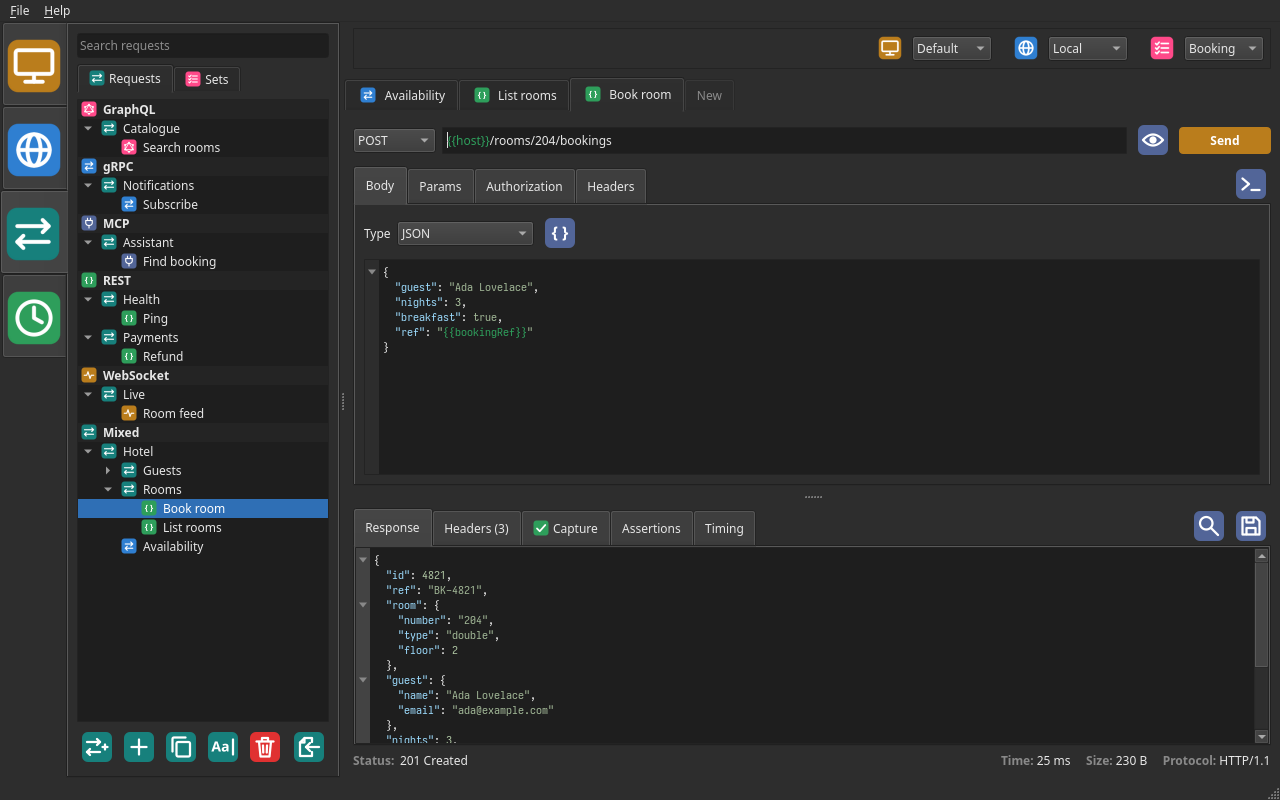
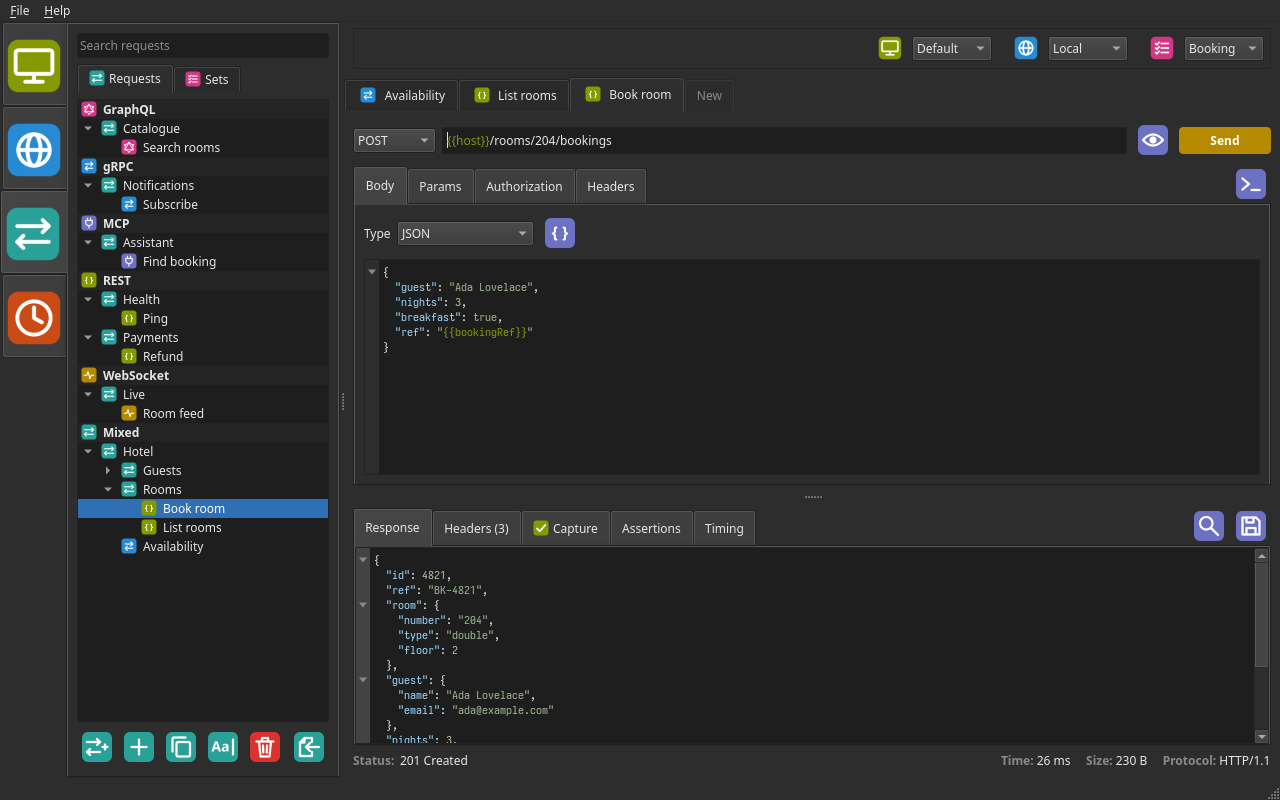
Updated colours.

diff --git a/internal/ui/colours.go b/internal/ui/colours.go
@@ -34,7 +34,8 @@ const (
 )
 
 // colourKinds are the colours, with what each is called in the settings and
-// the colour it is until another is chosen. Each has a default of its own,
+// the colour it is until another is chosen, which is one of the accents of
+// the Solarized palette. Each has a default of its own,
 // which no other follows, so that changing one changes nothing else. Send
 // is the colour of every button which sends: Invoke, Call, Connect, and
 // Execute beside the curl command. The action buttons are those beside the tabs of a panel,
@@ -54,26 +55,26 @@ var colourKinds = []struct {
 	// user has chosen.
 	setting func(*settings.Colours) *string
 }{
-	{colourWorkspaces, "Workspaces", "#ba7d1c", func(c *settings.Colours) *string { return &c.Workspaces }},
-	{colourEnvironments, "Environments", "#2f7fd1", func(c *settings.Colours) *string { return &c.Environments }},
-	{colourRequests, "Requests", "#17807c", func(c *settings.Colours) *string { return &c.Requests }},
-	{colourREST, "REST", "#2e9e5b", func(c *settings.Colours) *string { return &c.REST }},
-	{colourGRPC, "gRPC", "#2f7fd1", func(c *settings.Colours) *string { return &c.GRPC }},
-	{colourWebSocket, "WebSocket", "#ba7d1c", func(c *settings.Colours) *string { return &c.WebSocket }},
-	{colourGraphQL, "GraphQL", "#ff4989", func(c *settings.Colours) *string { return &c.GraphQL }},
-	{colourMCP, "MCP", "#526598", func(c *settings.Colours) *string { return &c.MCP }},
-	{colourRemove, "Delete", "#e03131", func(c *settings.Colours) *string { return &c.Remove }},
-	{colourAction, "Action", "#526598", func(c *settings.Colours) *string { return &c.Action }},
-	{colourSend, "Send", "#ba7d1c", func(c *settings.Colours) *string { return &c.Send }},
-	{colourFound, "Placeholders found", "#2e9e5b", func(c *settings.Colours) *string { return &c.Found }},
-	{colourNotFound, "Placeholders not found", "#ef5350", func(c *settings.Colours) *string { return &c.NotFound }},
-	{colourError, "Errors", "#ef5350", func(c *settings.Colours) *string { return &c.Error }},
-	{colourMatch, "Search matches", "#ffd43b", func(c *settings.Colours) *string { return &c.Match }},
-	{colourSets, "Sets", "#ff4989", func(c *settings.Colours) *string { return &c.Sets }},
-	{colourHistory, "History", "#2e9e5b", func(c *settings.Colours) *string { return &c.History }},
-	{colourTiming, "Timing bars", "#ba7d1c", func(c *settings.Colours) *string { return &c.Timing }},
-	{colourPassed, "Passed", "#2e9e5b", func(c *settings.Colours) *string { return &c.Passed }},
-	{colourFailed, "Failed", "#ef5350", func(c *settings.Colours) *string { return &c.Failed }},
+	{colourWorkspaces, "Workspaces", "#859900", func(c *settings.Colours) *string { return &c.Workspaces }},
+	{colourEnvironments, "Environments", "#268bd2", func(c *settings.Colours) *string { return &c.Environments }},
+	{colourRequests, "Requests", "#2aa198", func(c *settings.Colours) *string { return &c.Requests }},
+	{colourREST, "REST", "#859900", func(c *settings.Colours) *string { return &c.REST }},
+	{colourGRPC, "gRPC", "#268bd2", func(c *settings.Colours) *string { return &c.GRPC }},
+	{colourWebSocket, "WebSocket", "#b58900", func(c *settings.Colours) *string { return &c.WebSocket }},
+	{colourGraphQL, "GraphQL", "#d33682", func(c *settings.Colours) *string { return &c.GraphQL }},
+	{colourMCP, "MCP", "#6c71c4", func(c *settings.Colours) *string { return &c.MCP }},
+	{colourRemove, "Delete", "#dc322f", func(c *settings.Colours) *string { return &c.Remove }},
+	{colourAction, "Action", "#6c71c4", func(c *settings.Colours) *string { return &c.Action }},
+	{colourSend, "Send", "#b58900", func(c *settings.Colours) *string { return &c.Send }},
+	{colourFound, "Placeholders found", "#859900", func(c *settings.Colours) *string { return &c.Found }},
+	{colourNotFound, "Placeholders not found", "#dc322f", func(c *settings.Colours) *string { return &c.NotFound }},
+	{colourError, "Errors", "#dc322f", func(c *settings.Colours) *string { return &c.Error }},
+	{colourMatch, "Search matches", "#b58900", func(c *settings.Colours) *string { return &c.Match }},
+	{colourSets, "Sets", "#d33682", func(c *settings.Colours) *string { return &c.Sets }},
+	{colourHistory, "History", "#cb4b16", func(c *settings.Colours) *string { return &c.History }},
+	{colourTiming, "Timing bars", "#b58900", func(c *settings.Colours) *string { return &c.Timing }},
+	{colourPassed, "Passed", "#859900", func(c *settings.Colours) *string { return &c.Passed }},
+	{colourFailed, "Failed", "#dc322f", func(c *settings.Colours) *string { return &c.Failed }},
 }
 
 // customColours are the colours the user has chosen. See setColours.

diff --git a/internal/ui/json.go b/internal/ui/json.go
@@ -17,6 +17,10 @@ const (
 	tokenString
 	tokenNumber
 	tokenLiteral
+	// tokenCurl is not a token of JSON but the text of the curl command of
+	// a request, which is in the colour of the keys of JSON unless another
+	// is chosen.
+	tokenCurl
 )
 
 // The default colours of the tokens. jsonDark is used on a dark background
@@ -28,28 +32,32 @@ var (
 		tokenString:  "#0451a5",
 		tokenNumber:  "#098658",
 		tokenLiteral: "#0451a5",
+		tokenCurl:    "#a31515",
 	}
 	jsonDark = map[tokenKind]string{
 		tokenKey:     "#9bdafc",
 		tokenString:  "#a1b796",
 		tokenNumber:  "#b0c8a4",
 		tokenLiteral: "#a1b796",
+		tokenCurl:    "#9bdafc",
 	}
 )
 
 // tokenKinds are the kinds of token in the order they are offered in the
-// settings, with what each is called there.
+// settings, with the heading they are under there and what each is called.
 var tokenKinds = []struct {
-	kind  tokenKind
-	label string
+	kind    tokenKind
+	heading string
+	label   string
 	// setting returns the place in the settings that holds the colour the
 	// user has chosen.
 	setting func(*settings.JSONColours) *string
 }{
-	{tokenKey, "Keys", func(c *settings.JSONColours) *string { return &c.Key }},
-	{tokenString, "Strings", func(c *settings.JSONColours) *string { return &c.String }},
-	{tokenNumber, "Numbers", func(c *settings.JSONColours) *string { return &c.Number }},
-	{tokenLiteral, "true, false and null", func(c *settings.JSONColours) *string { return &c.Literal }},
+	{tokenKey, "JSON", "Keys", func(c *settings.JSONColours) *string { return &c.Key }},
+	{tokenString, "JSON", "Strings", func(c *settings.JSONColours) *string { return &c.String }},
+	{tokenNumber, "JSON", "Numbers", func(c *settings.JSONColours) *string { return &c.Number }},
+	{tokenLiteral, "JSON", "true, false and null", func(c *settings.JSONColours) *string { return &c.Literal }},
+	{tokenCurl, "Curl command", "Text", func(c *settings.JSONColours) *string { return &c.Curl }},
 }
 
 // defaultJSONColours returns the colours of the tokens for the background

diff --git a/internal/ui/settingsdialog_test.go b/internal/ui/settingsdialog_test.go
@@ -287,6 +287,37 @@ func TestJSONColourSettings(t *testing.T) {
 	})
 }
 
+// TestCurlColourSetting checks that the curl command is in the colour of the
+// keys of JSON until another is chosen for it.
+func TestCurlColourSetting(t *testing.T) {
+	files := testFiles(t)
+
+	mainthread.Wait(func() {
+		w := NewWindow(files.Files)
+		text := func() string { return w.request.command.Palette().ColorWithCr(qt.QPalette__Text).Name() }
+		if want := defaultJSONColours()[tokenKey]; text() != want {
+			t.Errorf("curl colour = %s, want the colour of keys %s", text(), want)
+		}
+
+		d := newSettingsDialog(w.QWidget, w.config, files.Files)
+		d.json[tokenCurl].set("#112233")
+		chosen := d.settings(w.config)
+		if chosen.JSONColours != (settings.JSONColours{Curl: "#112233"}) {
+			t.Errorf("chosen = %+v", chosen.JSONColours)
+		}
+		if err := w.applySettings(chosen); err != nil {
+			t.Fatal(err)
+		}
+		if text() != "#112233" {
+			t.Errorf("curl colour = %s after choosing one", text())
+		}
+	})
+
+	if got := settings.Load(files.Settings).JSONColours; got != (settings.JSONColours{Curl: "#112233"}) {
+		t.Errorf("saved %+v", got)
+	}
+}
+
 func TestColourSettings(t *testing.T) {
 	files := testFiles(t)
 
@@ -476,7 +507,7 @@ func TestSettingsTabs(t *testing.T) {
 		// Every colour has a row of the table, under a heading for its
 		// section which is as wide as the table.
 		table := d.colourList
-		if want := len(colourSections) + 1 + len(colourKinds) + len(tokenKinds); table.RowCount() != want {
+		if want := len(colourSections) + 2 + len(colourKinds) + len(tokenKinds); table.RowCount() != want {
 			t.Errorf("the table of colours has %d rows, want %d", table.RowCount(), want)
 		}
 		if table.Item(0, colColourName).Text() != "Sidebar" || table.ColumnSpan(0, colColourName) != 2 || table.Item(1, colColourName).Text() != colourLabel(colourWorkspaces) {

diff --git a/internal/settings/settings.go b/internal/settings/settings.go
@@ -104,6 +104,8 @@ type JSONColours struct {
 	String  string `json:"string,omitempty"`
 	Number  string `json:"number,omitempty"`
 	Literal string `json:"literal,omitempty"`
+	// Curl is the colour of the text of the curl command of a request.
+	Curl string `json:"curl,omitempty"`
 }
 
 var hexColour = regexp.MustCompile(`^#[0-9a-fA-F]{6}$`)
@@ -111,7 +113,7 @@ var hexColour = regexp.MustCompile(`^#[0-9a-fA-F]{6}$`)
 // valid returns the colours with any that are not of the form #rrggbb
 // emptied.
 func (c JSONColours) valid() JSONColours {
-	emptyInvalid(&c.Key, &c.String, &c.Number, &c.Literal)
+	emptyInvalid(&c.Key, &c.String, &c.Number, &c.Literal, &c.Curl)
 	return c
 }
 

diff --git a/internal/ui/request.go b/internal/ui/request.go
@@ -280,6 +280,18 @@ func (p *requestPanel) setCodeFont(family string) {
 	p.command.SetFont(fixedFont(family))
 }
 
+// setCurlColour sets the colour the text of the curl command is in. Only the
+// role of the text is set in the widget's palette, so the rest follows the
+// theme.
+func (p *requestPanel) setCurlColour(colour string) {
+	palette := qt.NewQPalette()
+	c := qt.NewQColor6(colour)
+	palette.SetColor2(qt.QPalette__Text, c)
+	p.command.SetPalette(palette)
+	c.Delete()
+	palette.Delete()
+}
+
 // missingValue is shown in the preview of the URL where a placeholder has no
 // value: a black square, for something that is not there.
 const missingValue = "\u25a0"

diff --git a/internal/ui/settingsdialog.go b/internal/ui/settingsdialog.go
@@ -416,9 +416,13 @@ func (d *settingsDialog) colourTable() *qt.QTableWidget {
 		}
 	}
 
-	heading("JSON")
+	last := ""
 	for _, t := range tokenKinds {
-		s := d.newSwatch("JSON "+strings.ToLower(t.label[:1])+t.label[1:], customColour(&d.jsonColours, t.kind), func() string { return defaultJSONColours()[t.kind] })
+		if t.heading != last {
+			heading(t.heading)
+			last = t.heading
+		}
+		s := d.newSwatch(t.heading+" "+strings.ToLower(t.label[:1])+t.label[1:], customColour(&d.jsonColours, t.kind), func() string { return defaultJSONColours()[t.kind] })
 		d.json[t.kind] = s
 		add(t.label, s)
 	}

diff --git a/internal/ui/colours_test.go b/internal/ui/colours_test.go
@@ -63,7 +63,7 @@ func TestColourSettingFields(t *testing.T) {
 // TestJSONColourSettingFields checks that each kind of token is kept in its own
 // field of the settings.
 func TestJSONColourSettingFields(t *testing.T) {
-	want := map[tokenKind]string{tokenKey: "Key", tokenString: "String", tokenNumber: "Number", tokenLiteral: "Literal"}
+	want := map[tokenKind]string{tokenKey: "Key", tokenString: "String", tokenNumber: "Number", tokenLiteral: "Literal", tokenCurl: "Curl"}
 	for _, k := range tokenKinds {
 		var c settings.JSONColours
 		*customColour(&c, k.kind) = "#123456"

diff --git a/internal/ui/windowsettings.go b/internal/ui/windowsettings.go
@@ -140,6 +140,7 @@ func (w *Window) applyJSONColours() {
 		ui.editor.refreshPlaceholders()
 		ui.response.setJSONColours(colours)
 	}
+	w.request.setCurlColour(colours[tokenCurl])
 }
 
 // drawSidebarIcons gives the tabs of the sidebar their icons.

diff --git a/CLAUDE.md b/CLAUDE.md
@@ -95,10 +95,10 @@ Packages under `internal/`; only `ui` depends on Qt.
   - Right-clicking a value in the body of a response offers to capture it: `responsePanel.contextMenu` adds the offer to the usual menu of the editor when `capturePath` finds a path for the position (through `capture.PathAt`), and `addCapture` adds the rule, unless there is one the same, and shows it on the Capture tab with the name of its variable open for editing (`keyValueTable.addToEdit`). Values are offered only from `responsePanel.captureDoc`, the JSON that capturing reads, which the body ends with: all of a REST body that is valid JSON, as the editor shows it, or the last message of a gRPC call. It also offers to assert the value (`addAssertion`, if the panel has assertions, which is then the last action): a check of `assert.Body` at the path that it `equals` what `capture.Extract` gives of it, added by `assertTable.add` with its value open for editing. Tests call `contextMenu` and trigger its actions rather than open the menu.
   - `placeholderHighlighter` (`placeholders.go`) colours `{{name}}` placeholders, by default green if the active environment defines them and the red of a failure if it does not, or defines them as an empty value (`colourFound` / `colourNotFound`, decided in `placeholderRanges`). Text documents use a `QSyntaxHighlighter`; line edits have no formatting API, so the colours are delivered with an empty `QInputMethodEvent`, re-sent whenever the text or cursor moves. `Rehighlight` makes a `QPlainTextEdit` emit `textChanged`, so it is only called through `requestPanel.refreshPlaceholders`, which suppresses `onChange`. Table cells (params, headers, form fields, gRPC metadata) are coloured by an item delegate (`placeholderHighlighter.table`) which draws the cell without its text and paints the text over it in pieces; a cell is not coloured while it is being edited.
   - The sidebar width and response height are saved on close and restored by `Window.restoreLayout` the first time the window is shown, deferred with `Window.later` because splitter sizes are not known until the window has been laid out. The REST and gRPC pages share one response height (`Window.responseHeight`), applied to a page when it is shown.
-  - JSON in the REST body (when its type is JSON), the gRPC message, the GraphQL variables and the response is coloured and can be folded, and so are the GraphQL query and schema, as GraphQL in the same colours (`graphqlTokens` in `graphqltokens.go`, which shares its scanning of strings and numbers with `jsonTokens` and carries a block string over lines through the block state of the highlighter). There is a light and a dark set of default colours (`jsonLight` / `jsonDark`), chosen from the palette at startup; the settings dialog can override each, and `Window.applyJSONColours` updates every highlighter. `json.go` has the pure Go tokenizer (`jsonTokens`) and fold finder (`foldRegions`), both working line by line. A document can have only one `QSyntaxHighlighter`, so `placeholderHighlighter.code` colours the tokens of a language and the placeholders together: `document` with JSON (while its `isJSON` reports true; `always` for an editor that always holds it) and `graphql` with GraphQL. `folder` (`folding.go`) draws fold markers in a margin widget and hides the `QTextBlock`s inside a folded object or array; the text is untouched. It reacts to edits a turn of the event loop later, and `reset()` must be called after giving an editor new text.
+  - JSON in the REST body (when its type is JSON), the gRPC message, the GraphQL variables and the response is coloured and can be folded, and so are the GraphQL query and schema, as GraphQL in the same colours (`graphqlTokens` in `graphqltokens.go`, which shares its scanning of strings and numbers with `jsonTokens` and carries a block string over lines through the block state of the highlighter). There is a light and a dark set of default colours (`jsonLight` / `jsonDark`), chosen from the palette at startup; the settings dialog can override each (under a heading of each `tokenKinds` entry's `heading`), and `Window.applyJSONColours` updates every highlighter. The text of the curl command is coloured with them too, as `tokenCurl` (`settings.JSONColours.Curl`, `omitempty`; its defaults are those of the keys), which no tokenizer gives: `requestPanel.setCurlColour` sets the Text role of the command's palette alone. `json.go` has the pure Go tokenizer (`jsonTokens`) and fold finder (`foldRegions`), both working line by line. A document can have only one `QSyntaxHighlighter`, so `placeholderHighlighter.code` colours the tokens of a language and the placeholders together: `document` with JSON (while its `isJSON` reports true; `always` for an editor that always holds it) and `graphql` with GraphQL. `folder` (`folding.go`) draws fold markers in a margin widget and hides the `QTextBlock`s inside a folded object or array; the text is untouched. It reacts to edits a turn of the event loop later, and `reset()` must be called after giving an editor new text.
   - A Format button (`formatButton` in `format.go`, an action button with a pair of braces, `drawBraces`, as the icon of a REST request has) sets out the JSON of the REST body, where it is beside the type of the body and shown only when that is JSON (`requestPanel.format`), and of the gRPC message, beside Use Example Message (`grpcPanel.format`, which is `several`, setting out each of the messages one after another with `rest.FormatJSONValues`). Beside them a faded line (`grpcPanel.streaming`, shown by `showStreaming` once the service definition says) says that the method chosen takes a stream of messages, and how to give several. `rest.FormatJSON` does it, indenting by two spaces as a response is, and keeps `{{name}}` placeholders, which may stand for a value as well as be inside a string, by swapping each for a number while the text is set out. The text is replaced through a `QTextCursor` so that it can be undone. Text that is not JSON is left alone and the reason shown as a tooltip beneath the button; tests replace `formatButton.warn`.
   - The menu bar (`Window.newMenuBar`) has File > Settings (Ctrl+,), File > Quit (Ctrl+Q), which closes the window so the close event still saves the settings, and Help > About (Ctrl+I), which shows `aboutDialog` (`about.go`): the program's icon and `aboutText` beside it, under the name and the version (`newAboutTitle`; `appVersion` is from the build information Go records from git, as `plainVersion` has it: the release, or the one a build between tags follows, and the version is smaller and half transparent through a `QGraphicsOpacityEffect`), and `licenceText` beneath in a `QFrame` of the style (`StyledPanel`, sunken), with no style sheet or colour of its own. `licenceText` carries the notice the LGPL asks of programs using Qt and names the libraries the program is built with and their licences; a library added to `go.mod` (not as indirect) is added to it.
-  - The colours of the icons are chosen in the settings: workspaces, environments, requests, REST, gRPC, WebSocket, GraphQL and MCP requests, the delete buttons and the action buttons (curl, format, find, save and the pin of a request tab, which share one), the send buttons (Send, Invoke and Execute, styled by `makePrimary`), placeholders that are found and not found (`placeholderHighlighter.setColours`), the text of errors (`colourError`: failures in the bar beneath a response, and the status lines of the gRPC, GraphQL and MCP panels, `statusLine`), the tick and cross of capturing and of assertions (`colourPassed` / `colourFailed`, in a Captures and assertions section of the settings; `settings.Colours.UnmarshalJSON` reads the `captured` / `notCaptured` of a settings file from before as them), what marks the matches of a search of a response (`colourMatch`), the sets, their tab and their buttons (`colourSets`, in the Sidebar section of the settings), the History tab and its buttons (`colourHistory`, there too), and the bars of the Timing tab of a response (`colourTiming`, in a Timing section of its own). Text drawn over one of these colours is black or white, whichever `readableOn` (`style.go`) says can be read against it. `colours.go` has the kinds (`colourKinds`, with their defaults and the field of `settings.Colours` each is kept in) and `themeColour`, which gives the colour in effect; nothing else names one of these colours. Every kind has a default of its own, written out in `colourKinds` and shared with no other kind or constant, and everything is drawn in the colour of its own kind, so that changing one colour in the settings changes nothing else. Icons drawn in these colours are kept by `cachedIcon`, which `setColours` empties. `newIconButton` takes a kind, and `followColours` has a button's icon drawn again when the colours change. `Window.applyColours` (through `setColours`, which also forgets the cached icons) redraws the rest: the sidebar tabs, the lists, the tree, the history, the request tabs, the send buttons, the placeholders, the errors, the marks of captures and assertions, the matches of a search and the timing bars (`timingTab.recolour`). The colours are package state, set from the settings by `NewWindow`. The import kinds and the program's icon are not among them.
+  - The colours of the icons are chosen in the settings: workspaces, environments, requests, REST, gRPC, WebSocket, GraphQL and MCP requests, the delete buttons and the action buttons (curl, format, find, save and the pin of a request tab, which share one), the send buttons (Send, Invoke and Execute, styled by `makePrimary`), placeholders that are found and not found (`placeholderHighlighter.setColours`), the text of errors (`colourError`: failures in the bar beneath a response, and the status lines of the gRPC, GraphQL and MCP panels, `statusLine`), the tick and cross of capturing and of assertions (`colourPassed` / `colourFailed`, in a Captures and assertions section of the settings; `settings.Colours.UnmarshalJSON` reads the `captured` / `notCaptured` of a settings file from before as them), what marks the matches of a search of a response (`colourMatch`), the sets, their tab and their buttons (`colourSets`, in the Sidebar section of the settings), the History tab and its buttons (`colourHistory`, there too), and the bars of the Timing tab of a response (`colourTiming`, in a Timing section of its own). Text drawn over one of these colours is black or white, whichever `readableOn` (`style.go`) says can be read against it. `colours.go` has the kinds (`colourKinds`, with their defaults and the field of `settings.Colours` each is kept in) and `themeColour`, which gives the colour in effect; nothing else names one of these colours. Every kind has a default of its own, an accent of the Solarized palette, written out in `colourKinds` and shared with no other kind or constant, and everything is drawn in the colour of its own kind, so that changing one colour in the settings changes nothing else. Icons drawn in these colours are kept by `cachedIcon`, which `setColours` empties. `newIconButton` takes a kind, and `followColours` has a button's icon drawn again when the colours change. `Window.applyColours` (through `setColours`, which also forgets the cached icons) redraws the rest: the sidebar tabs, the lists, the tree, the history, the request tabs, the send buttons, the placeholders, the errors, the marks of captures and assertions, the matches of a search and the timing bars (`timingTab.recolour`). The colours are package state, set from the settings by `NewWindow`. The import kinds and the program's icon are not among them.
   - The theme (`theme.go`, as ApeMail has it): light and dark are the Fusion style, which honours a palette on every desktop, with a palette of its own (`lightColours` / `darkColours`, each setting every role Fusion draws with, given by the theme's entry in `themes`, which is nil for the system's; `themeIndex` finds one by name), through a proxy style (`newThemeStyle`) that edges the boxes of check boxes again half way between text and base, as Fusion's edge barely shows on either (`TestCheckBoxEdges`); following the system puts back the style the program started with (`systemStyle`) and an empty palette, which is the desktop's and which Qt keeps up to date as the desktop changes. `applyTheme` puts one into effect: `NewWindow` before any widget is made, and `Window.applySettings` at once when it changes, which then has `applyJSONColours` and `applyColours` draw again what is in colours made from the palette (the default JSON colours, faded text, the selection of the find bar). The application's palette changes at once and those of widgets only once the change posted to them is delivered, so read the application's (`QGuiApplication_Palette`) in such a redraw. A `QProxyStyle` made without a base is over the desktop's style, not the application's, so `paddedComboStyle` is made over `themeStyleName()` and `applyTheme` gives it the new one.
   - `Window.keys` are the keys in effect, opened by `openKeys` at startup and when the settings change; the sidebar lists save with them (`envList.keys` / `requestTree.keys`). The program needs keys to work: with none (`Window.keys == nil`), `Window.loadWorkspace` gives empty stores with no paths, so nothing is read or saved, the status bar says so (`needKeys`), and `adviseKeys` tells the user in a dialog when the window is first shown and when the keys are taken out of the settings. With keys, `loadWorkspace` encrypts a file that is not yet (`Window.encrypt`) once it has been read, and a file that cannot be decrypted is, like one that cannot be parsed, never saved to. `Window.changeKeys` converts the files of every workspace (`workspace.Files`, the history among them) when the keys of the settings change, and reads the workspace in use again if it could not be read before; taking the keys away leaves the files as they are. Keys that cannot be opened are refused and the setting left as it was. Tests replace `askPassphrase` and `adviseKeys` rather than let the dialogs open.
   - The Export and Import buttons of the settings dialog call `settingsDialog.onExport` / `onImport`, which `Window.openSettings` sets to `Window.chooseExport` / `chooseImport`; those ask for the files and call `Window.exportWorkspaces` / `importWorkspaces`, which tests call directly. They act at once, with the keys and folder in effect, not what the dialog has yet to be accepted with. `workspace.Export` writes every workspace to a zip file (a folder for each, holding its environments and requests; the history is personal and left out) with each file decrypted and encrypted again for someone else's public key (`crypt.Recipient`, keys which only encrypt); `workspace.Unpack` adds the workspaces of such a file, reading and checking everything before writing anything: only those two files in folders with valid names, each readable with the keys, and a name that is taken is given another (`Unique`) so nothing is replaced.

diff --git a/README.md b/README.md
@@ -394,10 +394,11 @@ File > Settings has five tabs:
 - User interface: the theme, light, dark or following the desktop's (which
   changes with it), the font of code (request and response bodies, messages,
   queries, arguments and the curl command), and the colours of the
-  interface, listed in sections: the icons of the sidebar and of each type of
+  interface (by default the accents of Solarized), listed in sections: the icons of the sidebar and of each type of
   request, the buttons, the sets, the history, placeholders, errors, the marks of captures and assertions,
-  the matches of a search, the bars of the Timing tab and JSON highlighting, which GraphQL is coloured
-  with too.
+  the matches of a search, the bars of the Timing tab, JSON highlighting, which GraphQL is coloured
+  with too, and the text of the curl command, which is in the colour of the keys of JSON
+  unless another is chosen.
 
 The size and layout of the window are remembered between runs. Folders of
 requests all start closed; choosing a request's tab opens the folders it is
